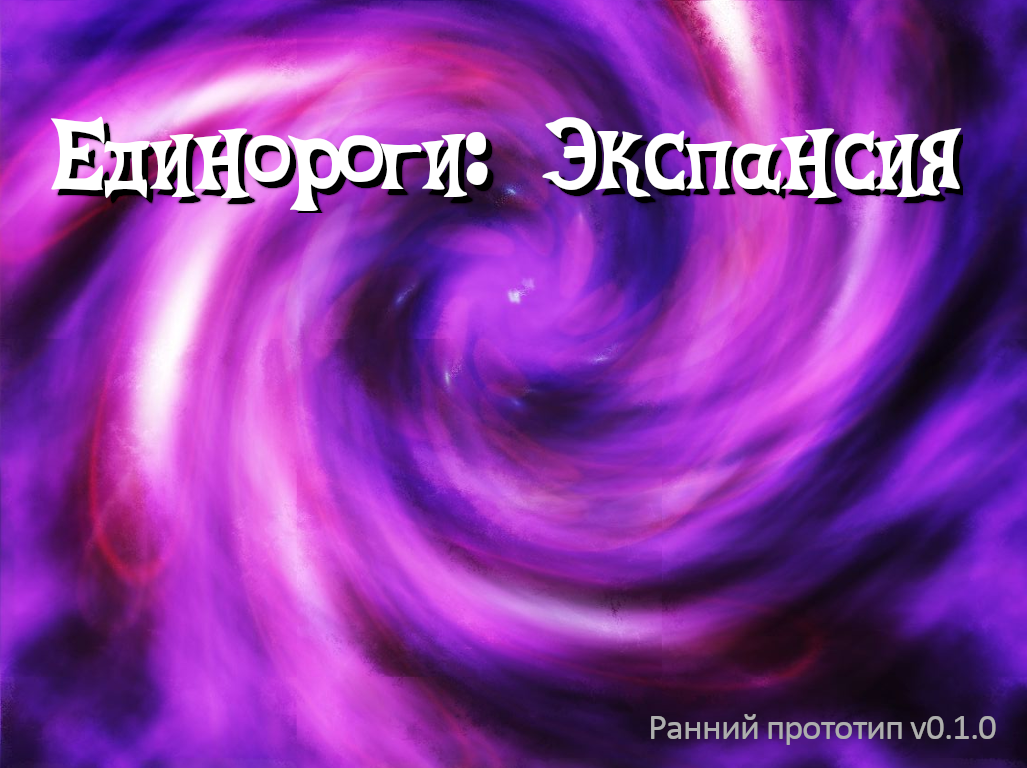
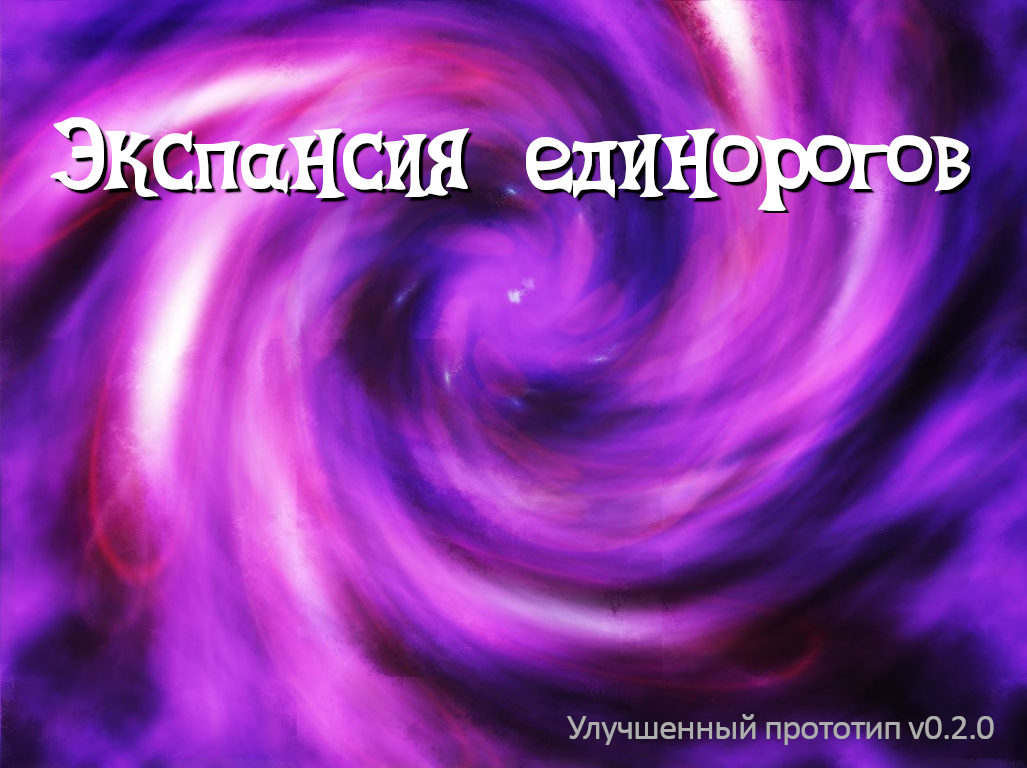
Изменение заставки, названия игры, правки README и скринов.

Changed region(s): [[0.0312, 0.1562, 0.9659, 0.2812], [0.5609, 0.9375, 0.9659, 0.9688]]

diff --git a/README.md b/README.md
@@ -4,7 +4,7 @@
 
 Жанр игры - тактическая игра с элементами RTS. Двумерная карта, вид сверху, с прокруткой по игровому миру, а также мини-картой. Карта открывается по  мере продвижения юнитов. В распоряжении игрока — призываемые единороги, которые можно получить в портале за единицы магии. Единороги ходят по прямой (вертикали и горизонтали), обходят препятствия. Выстрелы идут автоматически при виде противника, когда он оказывается на расстоянии стрельбы (не только по прямой, в любом направлении на расстояние, меньшее или равное длине стрельбы). Сама стрельба реализована как непрерывная атака лучом-линией. 
 
-![UnicornExpansion](screen1.png) ![UnicornExpansion](screen2.png)
+![UnicornExpansion](screen3.png) ![UnicornExpansion](screen4.png)
 
 Противник представляет собой вражеские юниты, а также источники этих юнитов в виде строений, с некоторой периодичностью создающие новые юниты врагов. Юниты могут быть в пассивном состоянии, могут случайно перемещаться по карте, могут двигаться по заданному маршруту, а также целенаправленно атаковать портал игрока. В любом случае, при приближении единорога к зоне видимости юнита он начинает атаку на единорога. Все вражеские юниты - ближнего боя, для урона единорогу, они должны подойти вплотную.
 
@@ -25,7 +25,7 @@
 
 1. Атака - с помощью красного луча единорог атакует ближайшего к нему противника. Улучшение специализации - сила атаки.
 2. Сбор ресурсов - с помощью синего луча единорог добывает магию из находящихся в зоне действия ресурсов. Улучшение специализации - скорость сбора.
-3. Лечение - с помощью зеленого луча единорог лечит ближайших к нему единорогов, кроме самого себя. Улучшение специализации - скорость лечения. Лечение расходует магию.
+3. Лечение - с помощью желтого луча единорог лечит ближайших к нему единорогов, кроме самого себя. Улучшение специализации - скорость лечения. Лечение расходует магию.
 4. Разведка - единорог может вызвать заклинание, которое откроет карту в радиусе от его местоположения. Сначала изучение, потом применение.
 
 Все специализации имеют несколько уровней.
@@ -33,7 +33,6 @@
 ## Улучшения единорогов в портале
 
 1. Защита - увеличивает максимальный запас здоровья единорога.
-2. Скорость - увеличивает скорость движения единорога.
-3. Максимальное количество пони - увеличивает количество единорогов, доступное игроку на поле.
+2. Максимальное количество пони - увеличивает количество единорогов, доступное игроку на поле.
 
 Все улучшения имеют несколько уровней.
